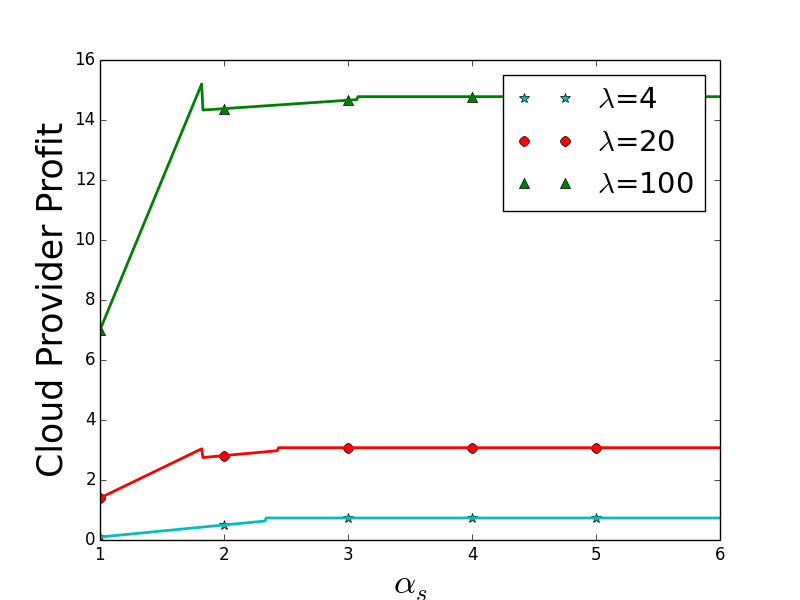
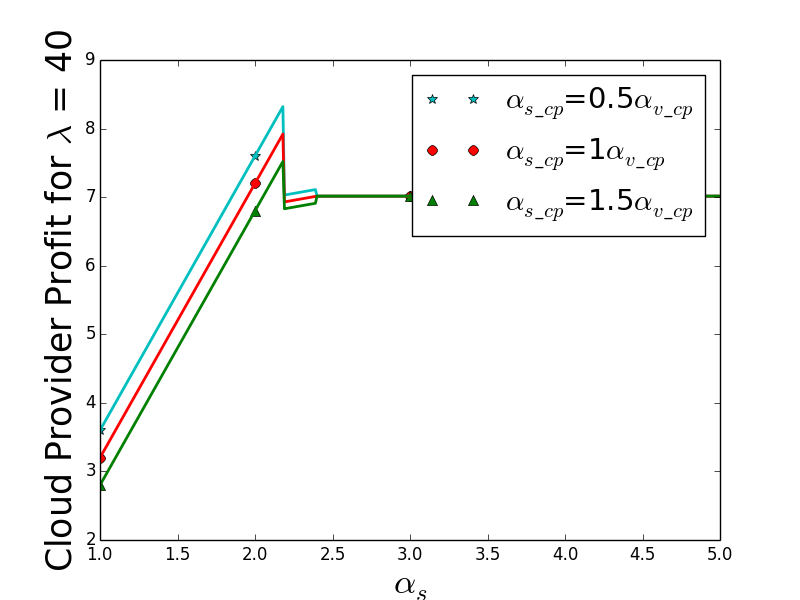
single user efficiency vary cost ratios cp

diff --git a/scripts/generate_plots_mg1.py b/scripts/generate_plots_mg1.py
@@ -251,24 +251,27 @@ def getNumServers(num_vm, load_serv, mu_v, mu_s, mu_server, eff_v, eff_s):
 
 def plotSingleUserEfficiency(mode):
 	alpha_v = 1.0
-	price_ratios = [0.01*x for x in range(100,600)]
+	price_ratios = [0.01*x for x in range(100,500)]
 	mu_server = 30.0
 	mu_v = 5.0
 	mu_s = 10.0
 	eff_s = 5.0
 	eff_v = 10.0
 	cp_alpha_v = 0.2
-	cp_alpha_s = 0.3
+	# cp_alpha_s = 0.3
+	cp_cost_ratios = [0.5, 1, 1.5]
 	beta = 0.9
 	gamma = 1
 	total_num_vm = 0
 	total_num_serv = 0
 	results = []
-	lambdas = [4, 20, 100]
+	lambdas = [4, 20, 40]
 	num_servers = []
 	# lambdas = [20, 60, 100]
 	# lambdas = [100]
-	for val_lambda in lambdas:
+	for cp_ratio in cp_cost_ratios:
+		val_lambda = 40
+		cp_alpha_s = cp_ratio * cp_alpha_v
 		results_num_vm = []
 		results_num_serv = []
 		results_total_servers = []
@@ -292,8 +295,11 @@ def plotSingleUserEfficiency(mode):
 	# filename = '../graphs/mg1/singleUserDelaysOptimalSCUser'  + '.png'
 	fig = plt.figure()
 	legends = []
-	for val_lambda in lambdas:
-		key = r'$\lambda$=' + str(val_lambda)
+	# for val_lambda in lambdas:
+	# 	key = r'$\lambda$=' + str(val_lambda)
+	# 	legends.append(key)
+	for ratio in cp_cost_ratios:
+		key = r'$\alpha_{s\_cp}$=' + str(ratio) + r'$\alpha_{v\_cp}$'
 		legends.append(key)
 	plt.plot(price_ratios[::100], results[0][::100], 'c*', markersize=7)
 	plt.plot(price_ratios[::100], results[1][::100], 'ro', markersize=7)
@@ -305,7 +311,9 @@ def plotSingleUserEfficiency(mode):
 	# plt.plot(lambdas, results[3], 'b', linewidth='2')
 
 	plt.legend(legends, loc='upper right', fontsize=21)
-	plt.ylabel('Cloud Provider Profit', fontsize=25)
+	labelstr = 'Cloud Provider Profit for ' + r'$\lambda$' + ' = 40'
+	# plt.ylabel('Cloud Provider Profit', fontsize=25)
+	plt.ylabel(labelstr, fontsize=25)
 	# plt.ylabel('Revenue from User', fontsize=25)
 	plt.xlabel(r'$\alpha_s$', fontsize=25)
 	plt.savefig(filename)
